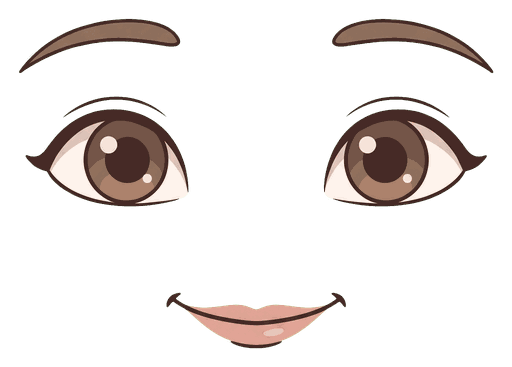
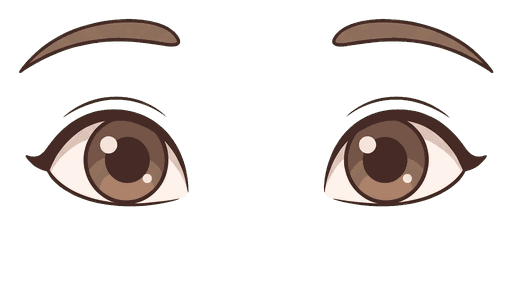
Rosto na proporcao de crianca de verdade, em qualquer corpo
O rosto ficava alto demais: olho a 45% da cabeca e boca a 70%, com o
queixo comprido embaixo. Medido em fotos de criancas de 2 a 6 anos, o olho
fica no meio da cabeca (55%) e a boca perto do queixo (80%).

- preparar_assets mede a cabeca de cada corpo (cranio, queixo, largura) e
  grava src/cabecas.json; as roupas de cabeca mais comprida entram certas
- cada peca de rosto vira olhos_<id> + boca_<id>, e o jogo poe cada um na
  sua linha; piscar nao amassa mais a boca
- o oculos segue a linha dos olhos e cresce com a cabeca (cadeira de rodas)

diff --git a/src/personagem.ts b/src/personagem.ts
@@ -1,4 +1,5 @@
 import Phaser from 'phaser';
+import CABECAS from './cabecas.json';
 import type { PersonagemCfg } from './storage';
 
 /**
@@ -12,13 +13,32 @@ import type { PersonagemCfg } from './storage';
 /** Altura do personagem em unidades locais (escala 1). */
 const ALT = 512;
 
-/** Onde fica a cabeca dentro da arte do corpo, em fracao da altura. */
-const CABECA = {
-  topo: -ALT / 2 + 0.055 * ALT,
-  altura: 0.275 * ALT,
-  largura: 0.357 * ALT,
-};
-const CENTRO_CABECA = CABECA.topo + CABECA.altura / 2;
+/**
+ * Onde vai o rosto, tirado de fotos de criancas de 2 a 6 anos: a testa e
+ * grande, o olho fica no meio da cabeca (alto do cranio ao queixo) e a boca
+ * perto do queixo. Rosto de adulto e que tem o olho mais para cima.
+ */
+const LINHA_OLHOS = 0.55;
+const LINHA_BOCA = 0.8;
+/** largura da peca dos olhos (de sobrancelha a sobrancelha) sobre a do cranio */
+const LARGURA_OLHOS = 0.74;
+
+interface Cabeca {
+  topo: number;
+  queixo: number;
+  largura: number;
+  cx: number;
+}
+
+/**
+ * A cabeca de cada corpo, medida pelo preparar_assets (src/cabecas.json) em
+ * fracao da altura da arte. Volta em unidades do personagem, com 0 no meio.
+ */
+function cabecaDe(sufixo: string) {
+  const tabela = CABECAS as Record<string, Cabeca>;
+  const c = tabela[sufixo] ?? tabela[''] ?? { topo: 0.037, queixo: 0.396, largura: 0.361, cx: 0 };
+  return { topo: (c.topo - 0.5) * ALT, queixo: (c.queixo - 0.5) * ALT, largura: c.largura * ALT, cx: c.cx * ALT };
+}
 
 /** Cores só para os botões do criador — a arte já vem recolorida. */
 export const PELES = [0xffe0bd, 0xefc9ab, 0xf3c893, 0xe0ac69, 0xc68642, 0x8d5524, 0x5c3317];
@@ -96,6 +116,8 @@ export interface Acessorio {
   broche?: number;
   /** entra atras do corpo (a capa de heroi) */
   atras?: boolean;
+  /** vai na linha dos olhos e cresce com a cabeca: tamanho e fracao da largura dela */
+  rosto?: boolean;
 }
 
 /**
@@ -108,7 +130,7 @@ export interface Acessorio {
  */
 export const ACESSORIOS: Acessorio[] = [
   // medido na arte do corpo: olhos em -0.30, orelha em x 0.155 e y -0.235
-  { id: 'oculos', nome: 'Óculos', icone: '\u{1F453}', x: 0, y: -0.295, tamanho: 0.2 },
+  { id: 'oculos', nome: 'Óculos', icone: '\u{1F453}', x: 0, y: 0, tamanho: 0.55, rosto: true },
   // { id: 'aparelho_auditivo', nome: 'Aparelho auditivo', icone: '\u{1F9BB}', x: 0.155, y: -0.235, tamanho: 0.075 },
   { id: 'bone', nome: 'Boné', icone: '\u{1F9E2}', x: 0, y: -0.45, tamanho: 0.22, estrelas: 3 },
   { id: 'laco', nome: 'Laço', icone: '\u{1F380}', x: -0.15, y: -0.44, tamanho: 0.15, estrelas: 3 },
@@ -123,11 +145,10 @@ export function acessorioLiberado(a: Acessorio, estrelas: number, broches: numbe
 
 export const temArte = (cena: Phaser.Scene) => cena.textures.exists('corpo_pele1');
 
+const sufixoCorpo = (cfg: PersonagemCfg) => (cfg.cadeirante ? '_sentado' : ROUPAS[cfg.roupa % ROUPAS.length].id);
+
 function corpoChave(cfg: PersonagemCfg) {
-  const pele = (cfg.pele % PELES.length) + 1;
-  if (cfg.cadeirante) return `corpo_sentado_pele${pele}`;
-  const roupa = ROUPAS[cfg.roupa % ROUPAS.length].id;
-  return `corpo${roupa}_pele${pele}`;
+  return `corpo${sufixoCorpo(cfg)}_pele${(cfg.pele % PELES.length) + 1}`;
 }
 
 /** Imagem ajustada pela LARGURA, mantendo a proporcao. */
@@ -146,16 +167,23 @@ export function desenharPersonagem(
   const c = cena.add.container(0, 0);
 
   const chave = corpoChave(cfg);
-  const corpo = cena.add.image(0, 0, cena.textures.exists(chave) ? chave : 'corpo_pele1');
+  const temCorpo = cena.textures.exists(chave);
+  const corpo = cena.add.image(0, 0, temCorpo ? chave : 'corpo_pele1');
   corpo.setOrigin(0.5).setScale(ALT / corpo.height);
   c.add(corpo);
 
+  const cab = cabecaDe(temCorpo ? sufixoCorpo(cfg) : '');
+  const altura = cab.queixo - cab.topo;
+  const linhaOlhos = cab.topo + LINHA_OLHOS * altura;
   const chaveOlhos = `olhos_${OLHOS[cfg.olhos % OLHOS.length].id}`;
   if (cena.textures.exists(chaveOlhos)) {
-    const olhos = porLargura(cena, chaveOlhos, CABECA.largura * 0.78);
-    // a peca traz olhos e boca: encaixa no meio do rosto, nao na linha dos olhos
-    olhos.setY(CENTRO_CABECA + CABECA.altura * 0.07);
+    // a peca dos olhos sai do preparar_assets com a linha dos olhos no meio
+    const olhos = porLargura(cena, chaveOlhos, LARGURA_OLHOS * cab.largura).setPosition(cab.cx, linhaOlhos);
     c.add(olhos);
+    const chaveBoca = chaveOlhos.replace('olhos_', 'boca_');
+    if (cena.textures.exists(chaveBoca)) {
+      c.add(cena.add.image(cab.cx, cab.topo + LINHA_BOCA * altura, chaveBoca).setScale(olhos.scaleX));
+    }
   }
 
   const cabelo = CABELOS[cfg.cabelo % CABELOS.length].id;
@@ -171,10 +199,12 @@ export function desenharPersonagem(
     const a = ACESSORIOS.find((x) => x.id === id);
     if (!a) continue;
     const chave = `acessorio_${a.id}`;
+    const largura = a.rosto ? a.tamanho * cab.largura : a.tamanho * ALT;
     const im = cena.textures.exists(chave)
-      ? porLargura(cena, chave, a.tamanho * ALT)
-      : cena.add.text(0, 0, a.icone, { fontSize: `${Math.round(a.tamanho * ALT)}px` }).setOrigin(0.5);
-    im.setPosition(a.x * ALT, a.y * ALT);
+      ? porLargura(cena, chave, largura)
+      : cena.add.text(0, 0, a.icone, { fontSize: `${Math.round(largura)}px` }).setOrigin(0.5);
+    if (a.rosto) im.setPosition(cab.cx + a.x * cab.largura, linhaOlhos + a.y * cab.largura);
+    else im.setPosition(a.x * ALT, a.y * ALT);
     c.add(im);
     // a capa cai nas costas: vai para tras do corpo
     if (a.atras) c.sendToBack(im);

diff --git a/src/animacoes.ts b/src/animacoes.ts
@@ -35,6 +35,7 @@ export type Animacao = (
 export interface Pecas {
   corpo?: Phaser.GameObjects.Image;
   olhos?: Phaser.GameObjects.Image;
+  boca?: Phaser.GameObjects.Image;
   cabelo?: Phaser.GameObjects.Image;
 }
 
@@ -45,6 +46,7 @@ export function pecas(alvo: Phaser.GameObjects.Container): Pecas {
     const chave = typeof im.texture?.key === 'string' ? im.texture.key : '';
     if (chave.startsWith('corpo')) fora.corpo ??= im;
     else if (chave.startsWith('olhos_')) fora.olhos ??= im;
+    else if (chave.startsWith('boca_')) fora.boca ??= im;
     else if (chave.startsWith('cabelo_')) fora.cabelo ??= im;
   }
   return fora;
@@ -60,17 +62,19 @@ const ROSTOS: Record<string, string> = {
 };
 
 /**
- * Troca a cara do personagem. A peca traz olhos e boca juntos, entao e so
- * trocar a textura -- e preciso recalcular a escala porque cada arte tem uma
- * largura diferente e o rosto nao pode mudar de tamanho junto com o humor.
+ * Troca a cara do personagem: olhos e boca do mesmo jeito juntos. E preciso
+ * recalcular a escala porque cada arte tem uma largura diferente e o rosto
+ * nao pode mudar de tamanho junto com o humor.
  */
 export function expressao(alvo: Phaser.GameObjects.Container, humor: keyof typeof ROSTOS | string) {
-  const { olhos } = pecas(alvo);
+  const { olhos, boca } = pecas(alvo);
   const chave = ROSTOS[humor] ?? humor;
   if (!olhos || !olhos.scene.textures.exists(chave) || olhos.texture.key === chave) return;
   const larguraAntes = olhos.displayWidth;
   olhos.setTexture(chave);
   olhos.setScale(larguraAntes / olhos.width);
+  const chaveBoca = chave.replace('olhos_', 'boca_');
+  if (boca && boca.scene.textures.exists(chaveBoca)) boca.setTexture(chaveBoca).setScale(olhos.scaleX);
 }
 
 /**

diff --git a/src/assets.ts b/src/assets.ts
@@ -21,7 +21,7 @@ export const IMAGENS = mapear(
  * a abertura leva uma eternidade no celular.
  */
 const ESSENCIAL =
-  /^(botao_|mundo|broche|estrela|ficha$|moeda$|medalha_final$|mascote_|corpo_|cabelo_|olhos_|acessorio_|cadeira_de_rodas$|icone_|bg_(menu_inicial|criador_personagem|mapa_mundos)$)/;
+  /^(botao_|mundo|broche|estrela|ficha$|moeda$|medalha_final$|mascote_|corpo_|cabelo_|olhos_|boca_|acessorio_|cadeira_de_rodas$|icone_|bg_(menu_inicial|criador_personagem|mapa_mundos)$)/;
 
 export const IMAGENS_BASE = Object.fromEntries(
   Object.entries(IMAGENS).filter(([chave]) => ESSENCIAL.test(chave)),

diff --git a/tools/preparar_assets.py b/tools/preparar_assets.py
@@ -9,6 +9,7 @@ redimensionados para o tamanho da tela. Fonte: ORIGEM (mude se preciso).
 """
 
 import argparse
+import json
 import os
 import sys
 
@@ -771,6 +772,90 @@ def fazer_opacas():
         print(f"{nome}: {len([r for r in rotulos if r])} pecas")
 
 
+def rosto_do_corpo(rgba):
+    """Onde fica a cabeca careca na arte do corpo, em fracao da altura.
+
+    topo e queixo vao do alto do cranio ao queixo (sem o pescoco); largura e a
+    do cranio acima das orelhas; cx e o desvio do meio da imagem. O jogo usa
+    isso para pôr olhos e boca no lugar em qualquer corpo, mesmo nos de cabeca
+    mais comprida.
+    """
+    a = np.asarray(rgba).astype(np.float32)
+    rgb, al = a[..., :3], a[..., 3]
+    mx, mn = rgb.max(2), rgb.min(2)
+    sat = np.where(mx > 0, (mx - mn) / np.maximum(mx, 1), 0)
+    r, g, b = rgb[..., 0], rgb[..., 1], rgb[..., 2]
+    pele = (r > g) & (g > b) & (sat > 0.10) & (sat < 0.66) & (mx > 60) & (al > 40)
+    pele[int(pele.shape[0] * 0.6):] = False
+    rot, n = ndimage.label(pele)
+    if n == 0:
+        return None
+    maior = int(np.argmax(ndimage.sum(pele, rot, range(1, n + 1)))) + 1
+    m = rot == maior
+    larg = m.sum(1)
+    topo = int(np.argmax(larg > 0))
+    testa = float(np.median(larg[topo + 30: topo + 90]))
+    # cabeca nao e mais alta que 1.3x a testa: o peito largo do moletom fica de fora
+    pico = topo + int(np.argmax(larg[topo: topo + int(1.3 * testa)]))
+    # o queixo e onde o rosto afina para o pescoco: a largura cai abaixo de 60%
+    # da testa, ou para de cair e volta a abrir (gola, capuz, decote)
+    queixo = len(larg) - 1
+    for y in range(pico + 3, len(larg)):
+        if larg[y] < 0.6 * testa:
+            queixo = y
+            break
+        if larg[y - 3] < 0.8 * testa and larg[y] > larg[y - 3] + 3:
+            queixo = y - 3
+            break
+    h = queixo - topo
+    faixa = slice(topo + int(0.25 * h), topo + int(0.45 * h))
+    ys, xs = np.where(m[faixa])
+    cx = float(np.median([(xs[ys == y].min() + xs[ys == y].max()) / 2 for y in np.unique(ys)]))
+    alto = rgba.height
+    return {
+        "topo": round(topo / alto, 4),
+        "queixo": round(queixo / alto, 4),
+        "largura": round(int(larg[faixa].max()) / alto, 4),
+        "cx": round((cx - rgba.width / 2) / alto, 4),
+    }
+
+
+def faixas_com_conteudo(rgba):
+    """Bandas de linhas com desenho: sobrancelha, olhos, boca."""
+    tem = (np.asarray(rgba)[..., 3] > 60).any(axis=1)
+    fora, ini = [], None
+    for y, t in enumerate(tem):
+        if t and ini is None:
+            ini = y
+        if not t and ini is not None:
+            fora.append((ini, y - 1))
+            ini = None
+    if ini is not None:
+        fora.append((ini, len(tem) - 1))
+    return [(a, b) for a, b in fora if b - a > 3]
+
+
+def separar_rosto(rgba):
+    """Peca de olhos+boca -> (olhos, boca), para o jogo pôr cada um no lugar.
+
+    O corte e o maior vao em branco abaixo dos olhos. Os olhos saem com a linha
+    dos olhos no meio exato da imagem (sobra transparente embaixo): assim o
+    jogo ancora pelo centro e piscar fecha o olho em volta dele mesmo. As duas
+    pecas mantem a largura inteira, entao o meio do rosto continua no meio.
+    """
+    bs = faixas_com_conteudo(rgba)
+    vaos = [(bs[i + 1][0] - bs[i][1], i) for i in range(len(bs) - 1) if bs[i][1] > rgba.height * 0.45]
+    if not vaos:
+        return rgba, None
+    _, i = max(vaos)
+    corte = (bs[i][1] + bs[i + 1][0]) // 2
+    linha = (bs[i][0] + bs[i][1]) / 2
+    olhos = Image.new("RGBA", (rgba.width, max(corte, round(2 * linha))), (0, 0, 0, 0))
+    olhos.alpha_composite(rgba.crop((0, 0, rgba.width, corte)), (0, 0))
+    boca = rgba.crop((0, bs[i + 1][0], rgba.width, bs[-1][1] + 1))
+    return olhos, boca
+
+
 def fazer_personagem():
     base = apagar_boca(tirar_verde(abrir("corpo_base_pele_clara")))
     caixa_base = pecas(base)[0]
@@ -787,12 +872,18 @@ def fazer_personagem():
             continue
         corpos[sufixo] = encaixada
     feitas = 0
+    cabecas = {}
     for sufixo, arte in corpos.items():
         caixa = caixa_base if sufixo not in ("", "_sentado") else pecas(arte)[0]
         for i, tom in enumerate(PELES, start=1):
-            gravar(recortar(recolorir_pele(arte, tom), caixa, 512), f"corpo{sufixo}_pele{i}")
+            caminho = gravar(recortar(recolorir_pele(arte, tom), caixa, 512), f"corpo{sufixo}_pele{i}")
             feitas += 1
-    print(f"corpo: {feitas} pecas")
+            if i == 3:  # a cabeca e a mesma em todo tom: mede no arquivo pronto
+                cabecas[sufixo] = rosto_do_corpo(Image.open(caminho).convert("RGBA"))
+    with open(os.path.join(RAIZ, "src", "cabecas.json"), "w", encoding="utf-8", newline="\n") as f:
+        json.dump(cabecas, f, indent=2, sort_keys=True)
+        f.write("\n")
+    print(f"corpo: {feitas} pecas, cabecas medidas em src/cabecas.json")
 
     # olhos sao varias manchas (sobrancelhas + olhos): pega a caixa de tudo junto
     feitas = 0
@@ -801,8 +892,14 @@ def fazer_personagem():
         if bruta is None:
             continue
         olhos = tirar_verde(bruta)
-        gravar(recortar(olhos, grade(olhos, 1, 1)[0], 512), f"olhos_{nome}")
+        so_olhos, boca = separar_rosto(recortar(olhos, grade(olhos, 1, 1)[0], 512))
+        gravar(so_olhos, f"olhos_{nome}")
         feitas += 1
+        if boca is None:
+            print(f"  ! olhos_{nome}: nao achei onde separar a boca, ficou tudo junto")
+        else:
+            gravar(boca, f"boca_{nome}")
+            feitas += 1
 
     for nome in CABELOS:
         bruta = abrir(f"cabelo_{nome}_castanho", obrigatorio=False)

diff --git a/docs/ARTE_PERSONAGEM.md b/docs/ARTE_PERSONAGEM.md
@@ -27,6 +27,23 @@ mesma imagem base, só trocando o que muda.
 | Cabelo | `cabelo_<id>_castanho` | 9 cores a partir do castanho |
 | Acessório | `acessorio_<id>` | a peça, sem recolorir |
 
+## O rosto se encaixa sozinho
+
+O `npm run assets` mede a cabeça de cada corpo (alto do crânio, queixo e
+largura) e grava em `src/cabecas.json`. Também separa cada peça de rosto em
+olhos e boca. O jogo põe cada um na proporção de criança de verdade, medida
+em fotos de crianças de 2 a 6 anos:
+
+| | onde fica, do alto do crânio ao queixo |
+|---|---|
+| linha dos olhos | 55% |
+| boca | 80% |
+| largura dos olhos | 74% da largura do crânio |
+
+A testa grande é o que faz o rosto parecer de criança. Por isso a arte do
+rosto não precisa sair no lugar certo: basta vir com olhos em cima e boca
+embaixo, com um espaço vazio entre os dois.
+
 O `<id>` tem que bater com o catálogo de
 [src/personagem.ts](../src/personagem.ts) (`CATALOGO_CABELOS`,
 `CATALOGO_OLHOS`, `ACESSORIOS`) e com as listas `CABELOS`, `OLHOS` e `SOLTAS`
